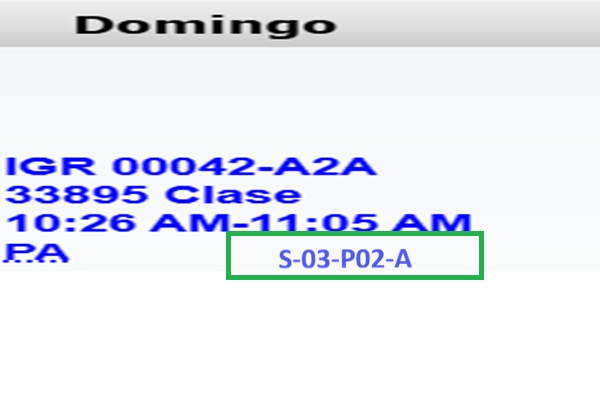
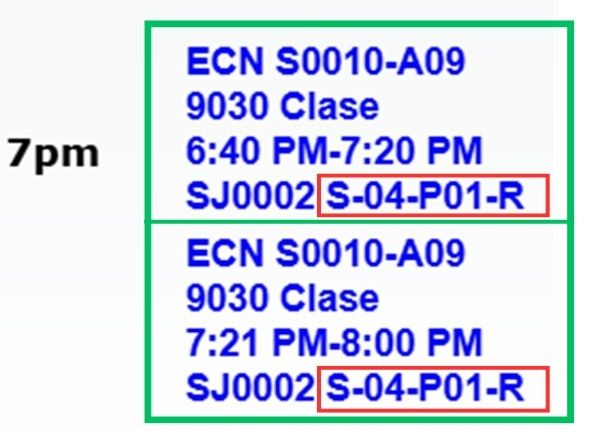
Se agrega imagen definitiva de modal Ayuda

diff --git a/src/components/Help/HelpModal.jsx b/src/components/Help/HelpModal.jsx
@@ -35,24 +35,25 @@ const HelpModal = ({ onClose }) => {
             <div className="help-subsection">
               <h4>Paso 1: Encuentra el código en tu horario</h4>
               <p>
-                En el horario de Intranet identifica el código de aula:
+                En el horario de <strong>Intranet</strong> identifica el código de aula
               </p>
               <img 
                 src={codigoHorarioImg} 
                 alt="Ejemplo de código de aula en el horario de Intranet"
                 className="help-image"
               />
+              <p>👁 Los rectángulos rojos indican el código de la aula.  Se repiten en cada hora.</p>
             </div>
 
             <div className="help-subsection">
               <h4>Paso 2: Ingresa el código en la barra de búsqueda</h4>
               <p>
-                Ingresa el código del aula en la barra de búsqueda. Puedes usar:
+                En <strong>encuentraTuAula</strong> ingresa el código del aula en la barra de búsqueda. Puedes usar:
               </p>
               <ul className="help-tips">
                 <li>Letras mayúsculas o minúsculas</li>
                 <li>Incluir o no los guiones (S03P02A o S-03-P02-A)</li>
-                <li>El sistema buscará automáticamente</li>
+                <li>Presiona bóton Buscar o enter en PC</li>
               </ul>
             </div>
           </div>
@@ -70,6 +71,7 @@ const HelpModal = ({ onClose }) => {
               <li>
                 <strong>Guía:</strong> Indicaciones paso a paso hasta llegar a tu aula.
               </li>
+              <li></li>
             </ul>
           </div>
 
